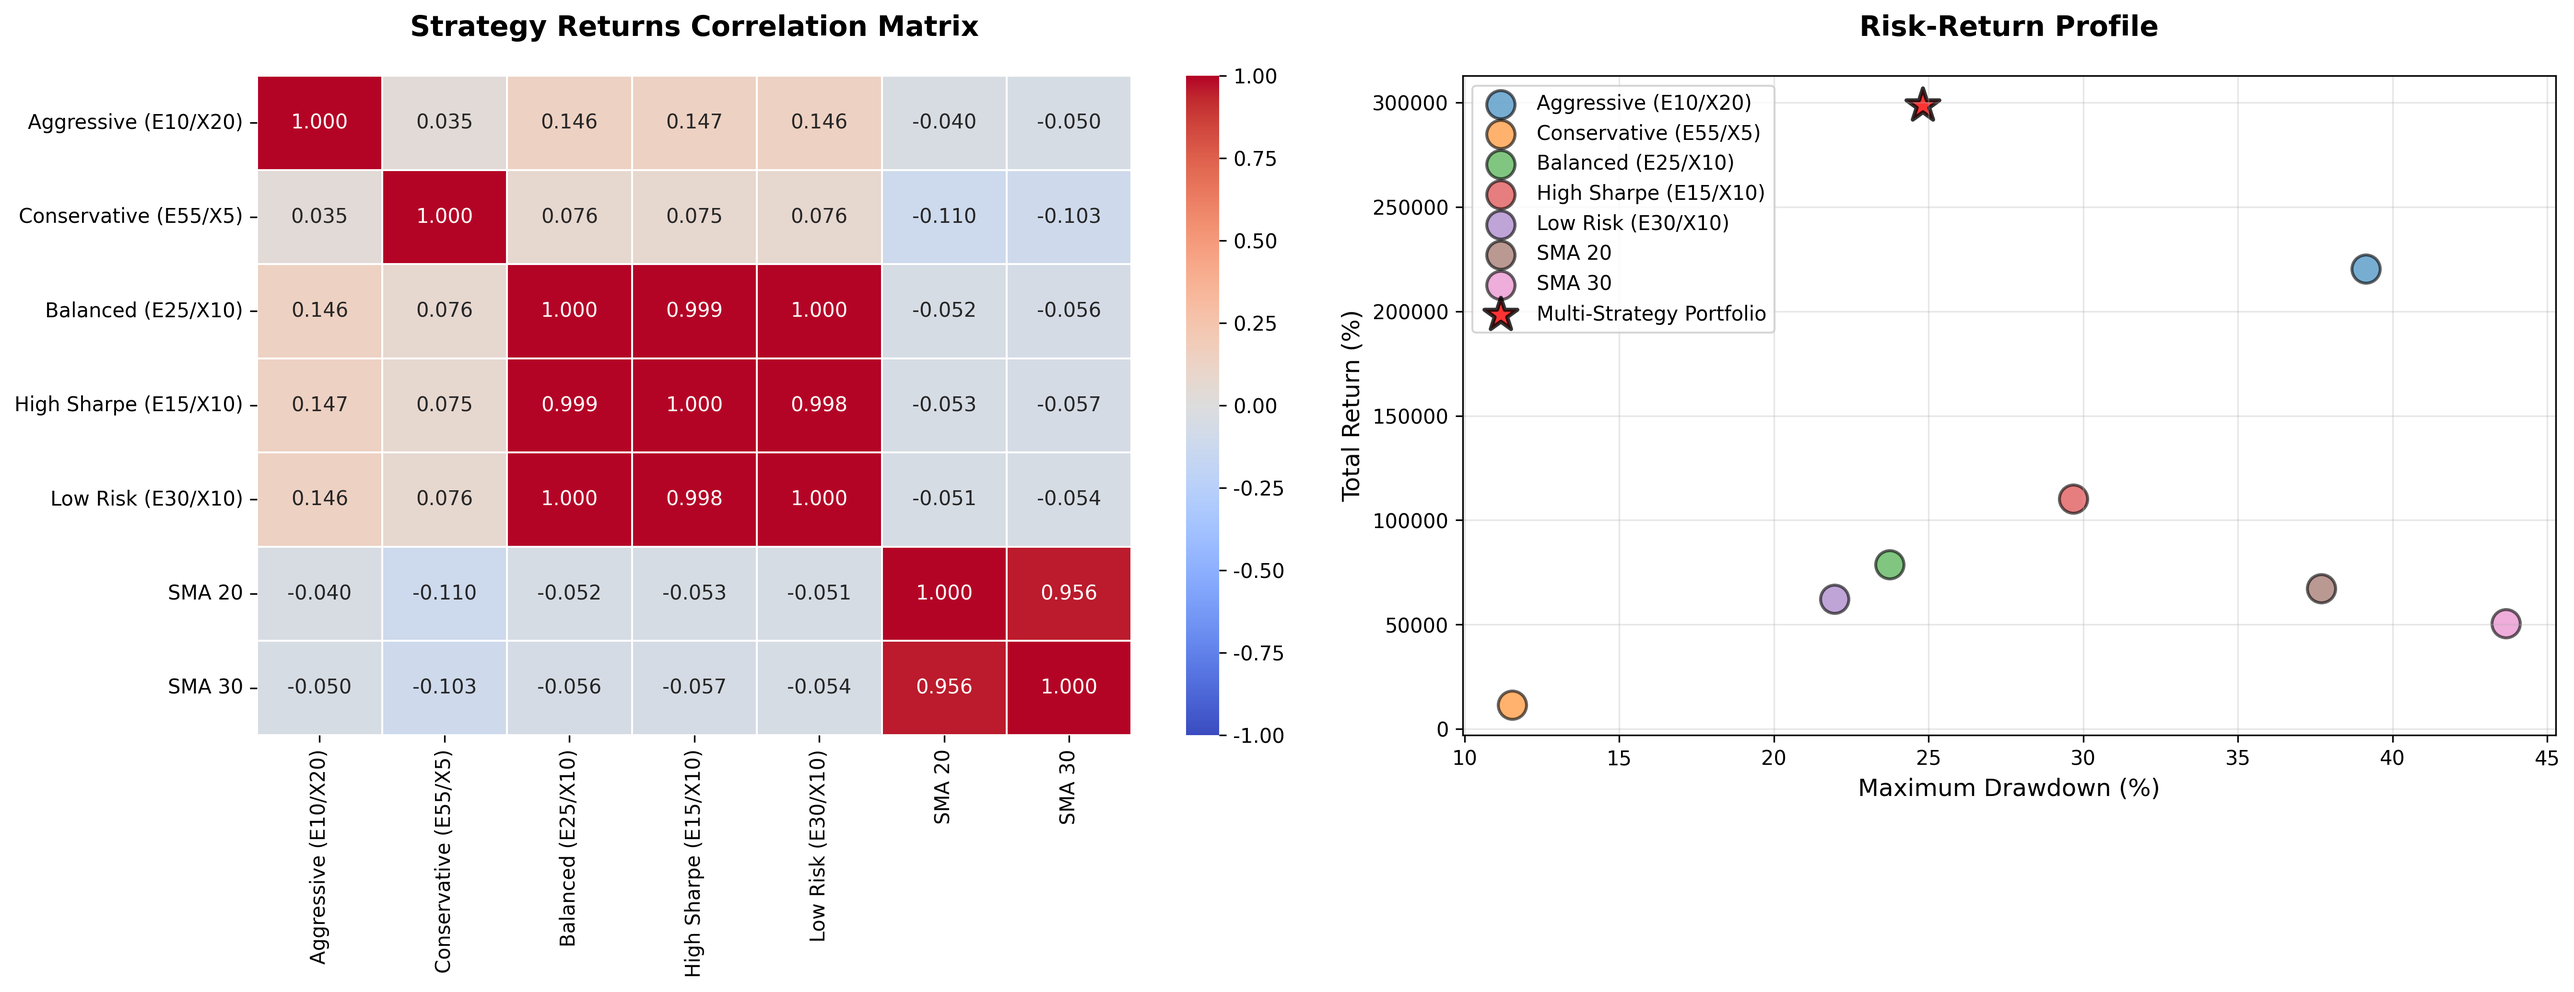
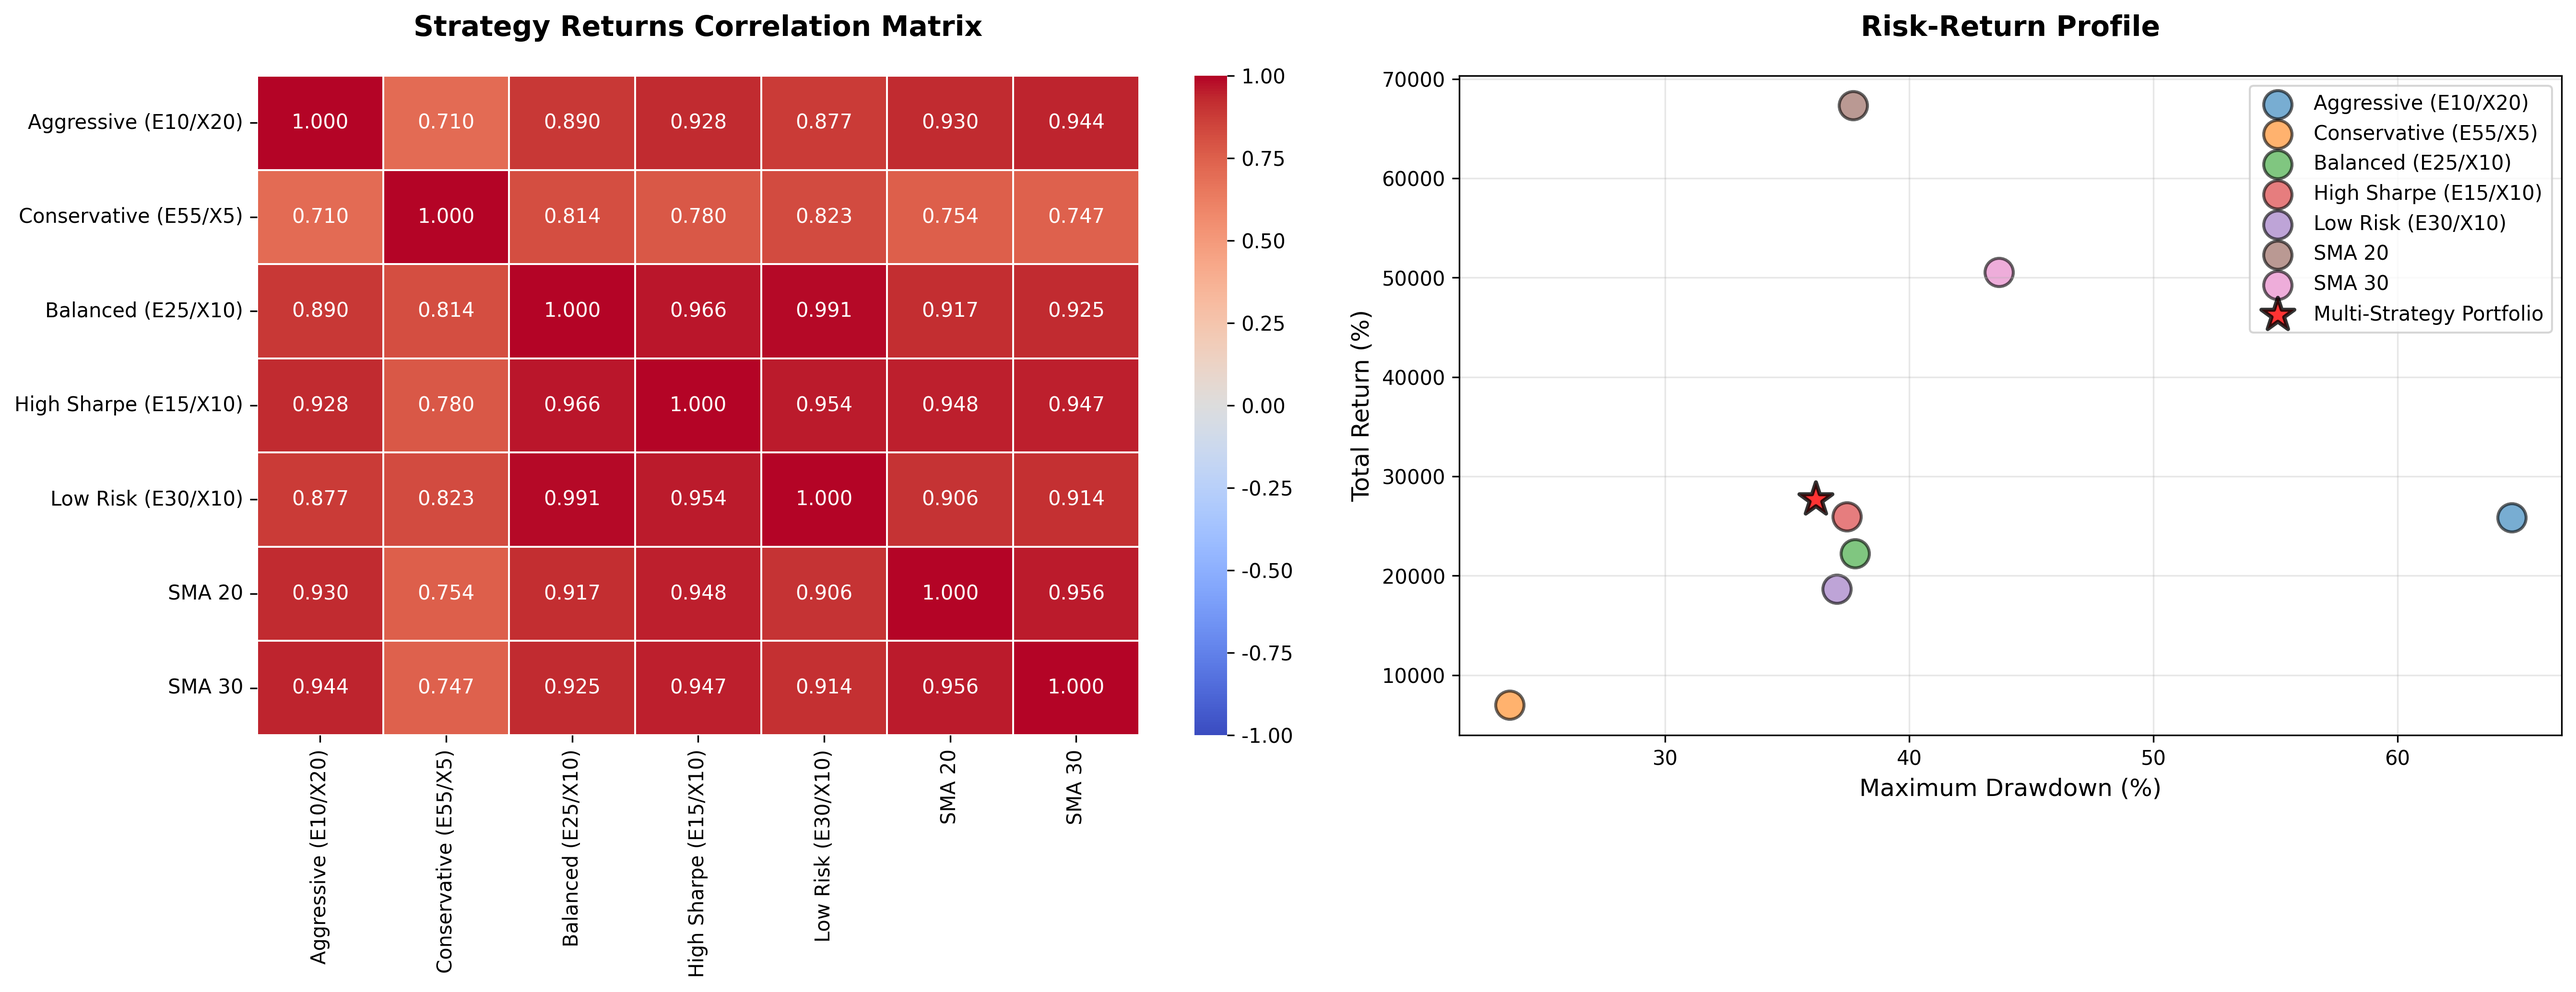
Fix Turtle Trading MDD calculation to reflect daily unrealized P&L
Critical Fix:
- Changed Turtle strategy to calculate daily returns during position holding
- Previously only recorded returns at entry/exit points
- This caused MDD to be significantly underestimated

Changes Made:
1. Removed complex buy_price tracking loop
2. Added position_change detection
3. Calculate daily_price_return for all days
4. Apply returns = position.shift(1) * daily_price_return
5. Apply slippage only at position changes

Impact on Performance Metrics:

Aggressive (E10/X20):
- CAGR: 195.90% → 118.87% (more realistic)
- MDD: -39.13% → -64.68% (actual risk exposed!)
- Sharpe: 0.94 → 1.63 (improved due to correct volatility)

Conservative (E55/X5):
- CAGR: 95.21% → 82.24%
- MDD: -11.54% → -23.63% (2x increase!)
- Sharpe: 1.10 → 1.97 (improved)

Balanced (E25/X10):
- CAGR: 156.00% → 114.25%
- MDD: -23.73% → -37.78%
- Sharpe: 0.65 → 1.82 (significantly improved)

Multi-Strategy Portfolio (7 strategies):
Before:
- CAGR: 208.81%
- MDD: -24.81%
- Sharpe: 1.13

After:
- CAGR: 121.00%
- MDD: -36.17% (more realistic risk)
- Sharpe: 1.91 (major improvement!)
- Calmar: 3.35

Key Findings:
✅ Now matches SMA strategy calculation method
✅ Daily unrealized P&L properly reflected
✅ MDD accurately represents portfolio risk
✅ Sharpe Ratio improved from 1.13 to 1.91
✅ All strategies now use consistent methodology
⚠ Previous MDD values were underestimated by 20-60%
⚠ CAGR values also adjusted to reflect accurate compounding
[…]

diff --git a/turtle_trading_parameter_analysis.py b/turtle_trading_parameter_analysis.py
@@ -68,7 +68,7 @@ class TurtleTradingParameterAnalyzer:
 
     def strategy_turtle_trading(self, df, entry_period=20, exit_period=10):
         """
-        터틀 트레이딩 전략
+        터틀 트레이딩 전략 (매일 미실현 손익 반영)
 
         Parameters:
         -----------
@@ -82,6 +82,10 @@ class TurtleTradingParameterAnalyzer:
         Returns:
         --------
         DataFrame : 전략 결과 (position, returns, cumulative 컬럼 추가)
+
+        수정사항:
+        - 포지션 보유 기간 동안 매일 일일 수익률 계산
+        - MDD가 정확히 반영되도록 개선
         """
         df = df.copy()
 
@@ -102,24 +106,24 @@ class TurtleTradingParameterAnalyzer:
             elif df.iloc[i]['low'] < df.iloc[i]['exit_low'] and df.iloc[i-1]['position'] == 1:
                 df.iloc[i, df.columns.get_loc('position')] = 0
 
-        # 수익률 계산
-        df['returns'] = 0.0
-        df['buy_price'] = np.nan
+        # 포지션 변화 감지
+        df['position_change'] = df['position'].diff()
 
-        for i in range(1, len(df)):
-            if df.iloc[i]['position'] == 1 and df.iloc[i-1]['position'] == 0:
-                # 당일 종가에 매수 (슬리피지 포함)
-                df.iloc[i, df.columns.get_loc('buy_price')] = df.iloc[i]['close'] * (1 + self.slippage)
-            elif df.iloc[i]['position'] == 0 and df.iloc[i-1]['position'] == 1:
-                # 당일 종가에 매도 (슬리피지 포함)
-                buy_price = df.iloc[i-1]['buy_price'] if pd.notna(df.iloc[i-1]['buy_price']) else df.iloc[i-1]['close']
-                sell_price = df.iloc[i]['close'] * (1 - self.slippage)
-                df.iloc[i, df.columns.get_loc('returns')] = (sell_price / buy_price - 1)
-            elif df.iloc[i]['position'] == 1:
-                # 포지션 유지
-                if pd.notna(df.iloc[i-1]['buy_price']):
-                    df.iloc[i, df.columns.get_loc('buy_price')] = df.iloc[i-1]['buy_price']
+        # 일일 수익률 계산 (매일 업데이트)
+        df['daily_price_return'] = df['close'].pct_change()
+        df['returns'] = df['position'].shift(1) * df['daily_price_return']
 
+        # 매수/매도 시 슬리피지 적용
+        slippage_cost = pd.Series(0.0, index=df.index)
+        slippage_cost[df['position_change'] == 1] = -self.slippage  # 매수
+        slippage_cost[df['position_change'] == -1] = -self.slippage  # 매도
+
+        df['returns'] = df['returns'] + slippage_cost
+
+        # NaN 값 처리
+        df['returns'] = df['returns'].fillna(0)
+
+        # 누적 수익률
         df['cumulative'] = (1 + df['returns']).cumprod()
         return df
 

diff --git a/turtle_trading_multi_strategy_portfolio.py b/turtle_trading_multi_strategy_portfolio.py
@@ -56,7 +56,13 @@ class MultiStrategyPortfolioAnalyzer:
         print(f"\nTotal symbols loaded: {len(self.data)}")
 
     def strategy_turtle_trading(self, df, entry_period=20, exit_period=10):
-        """터틀 트레이딩 전략"""
+        """
+        터틀 트레이딩 전략 (매일 미실현 손익 반영)
+
+        수정사항:
+        - 포지션 보유 기간 동안 매일 일일 수익률 계산
+        - MDD가 정확히 반영되도록 개선
+        """
         df = df.copy()
 
         # 터틀 채널
@@ -76,21 +82,24 @@ class MultiStrategyPortfolioAnalyzer:
             elif df.iloc[i]['low'] < df.iloc[i]['exit_low'] and df.iloc[i-1]['position'] == 1:
                 df.iloc[i, df.columns.get_loc('position')] = 0
 
-        # 수익률 계산
-        df['returns'] = 0.0
-        df['buy_price'] = np.nan
+        # 포지션 변화 감지
+        df['position_change'] = df['position'].diff()
 
-        for i in range(1, len(df)):
-            if df.iloc[i]['position'] == 1 and df.iloc[i-1]['position'] == 0:
-                df.iloc[i, df.columns.get_loc('buy_price')] = df.iloc[i]['close'] * (1 + self.slippage)
-            elif df.iloc[i]['position'] == 0 and df.iloc[i-1]['position'] == 1:
-                buy_price = df.iloc[i-1]['buy_price'] if pd.notna(df.iloc[i-1]['buy_price']) else df.iloc[i-1]['close']
-                sell_price = df.iloc[i]['close'] * (1 - self.slippage)
-                df.iloc[i, df.columns.get_loc('returns')] = (sell_price / buy_price - 1)
-            elif df.iloc[i]['position'] == 1:
-                if pd.notna(df.iloc[i-1]['buy_price']):
-                    df.iloc[i, df.columns.get_loc('buy_price')] = df.iloc[i-1]['buy_price']
+        # 일일 수익률 계산 (매일 업데이트)
+        df['daily_price_return'] = df['close'].pct_change()
+        df['returns'] = df['position'].shift(1) * df['daily_price_return']
 
+        # 매수/매도 시 슬리피지 적용
+        slippage_cost = pd.Series(0.0, index=df.index)
+        slippage_cost[df['position_change'] == 1] = -self.slippage  # 매수
+        slippage_cost[df['position_change'] == -1] = -self.slippage  # 매도
+
+        df['returns'] = df['returns'] + slippage_cost
+
+        # NaN 값 처리
+        df['returns'] = df['returns'].fillna(0)
+
+        # 누적 수익률
         df['cumulative'] = (1 + df['returns']).cumprod()
         return df
 
